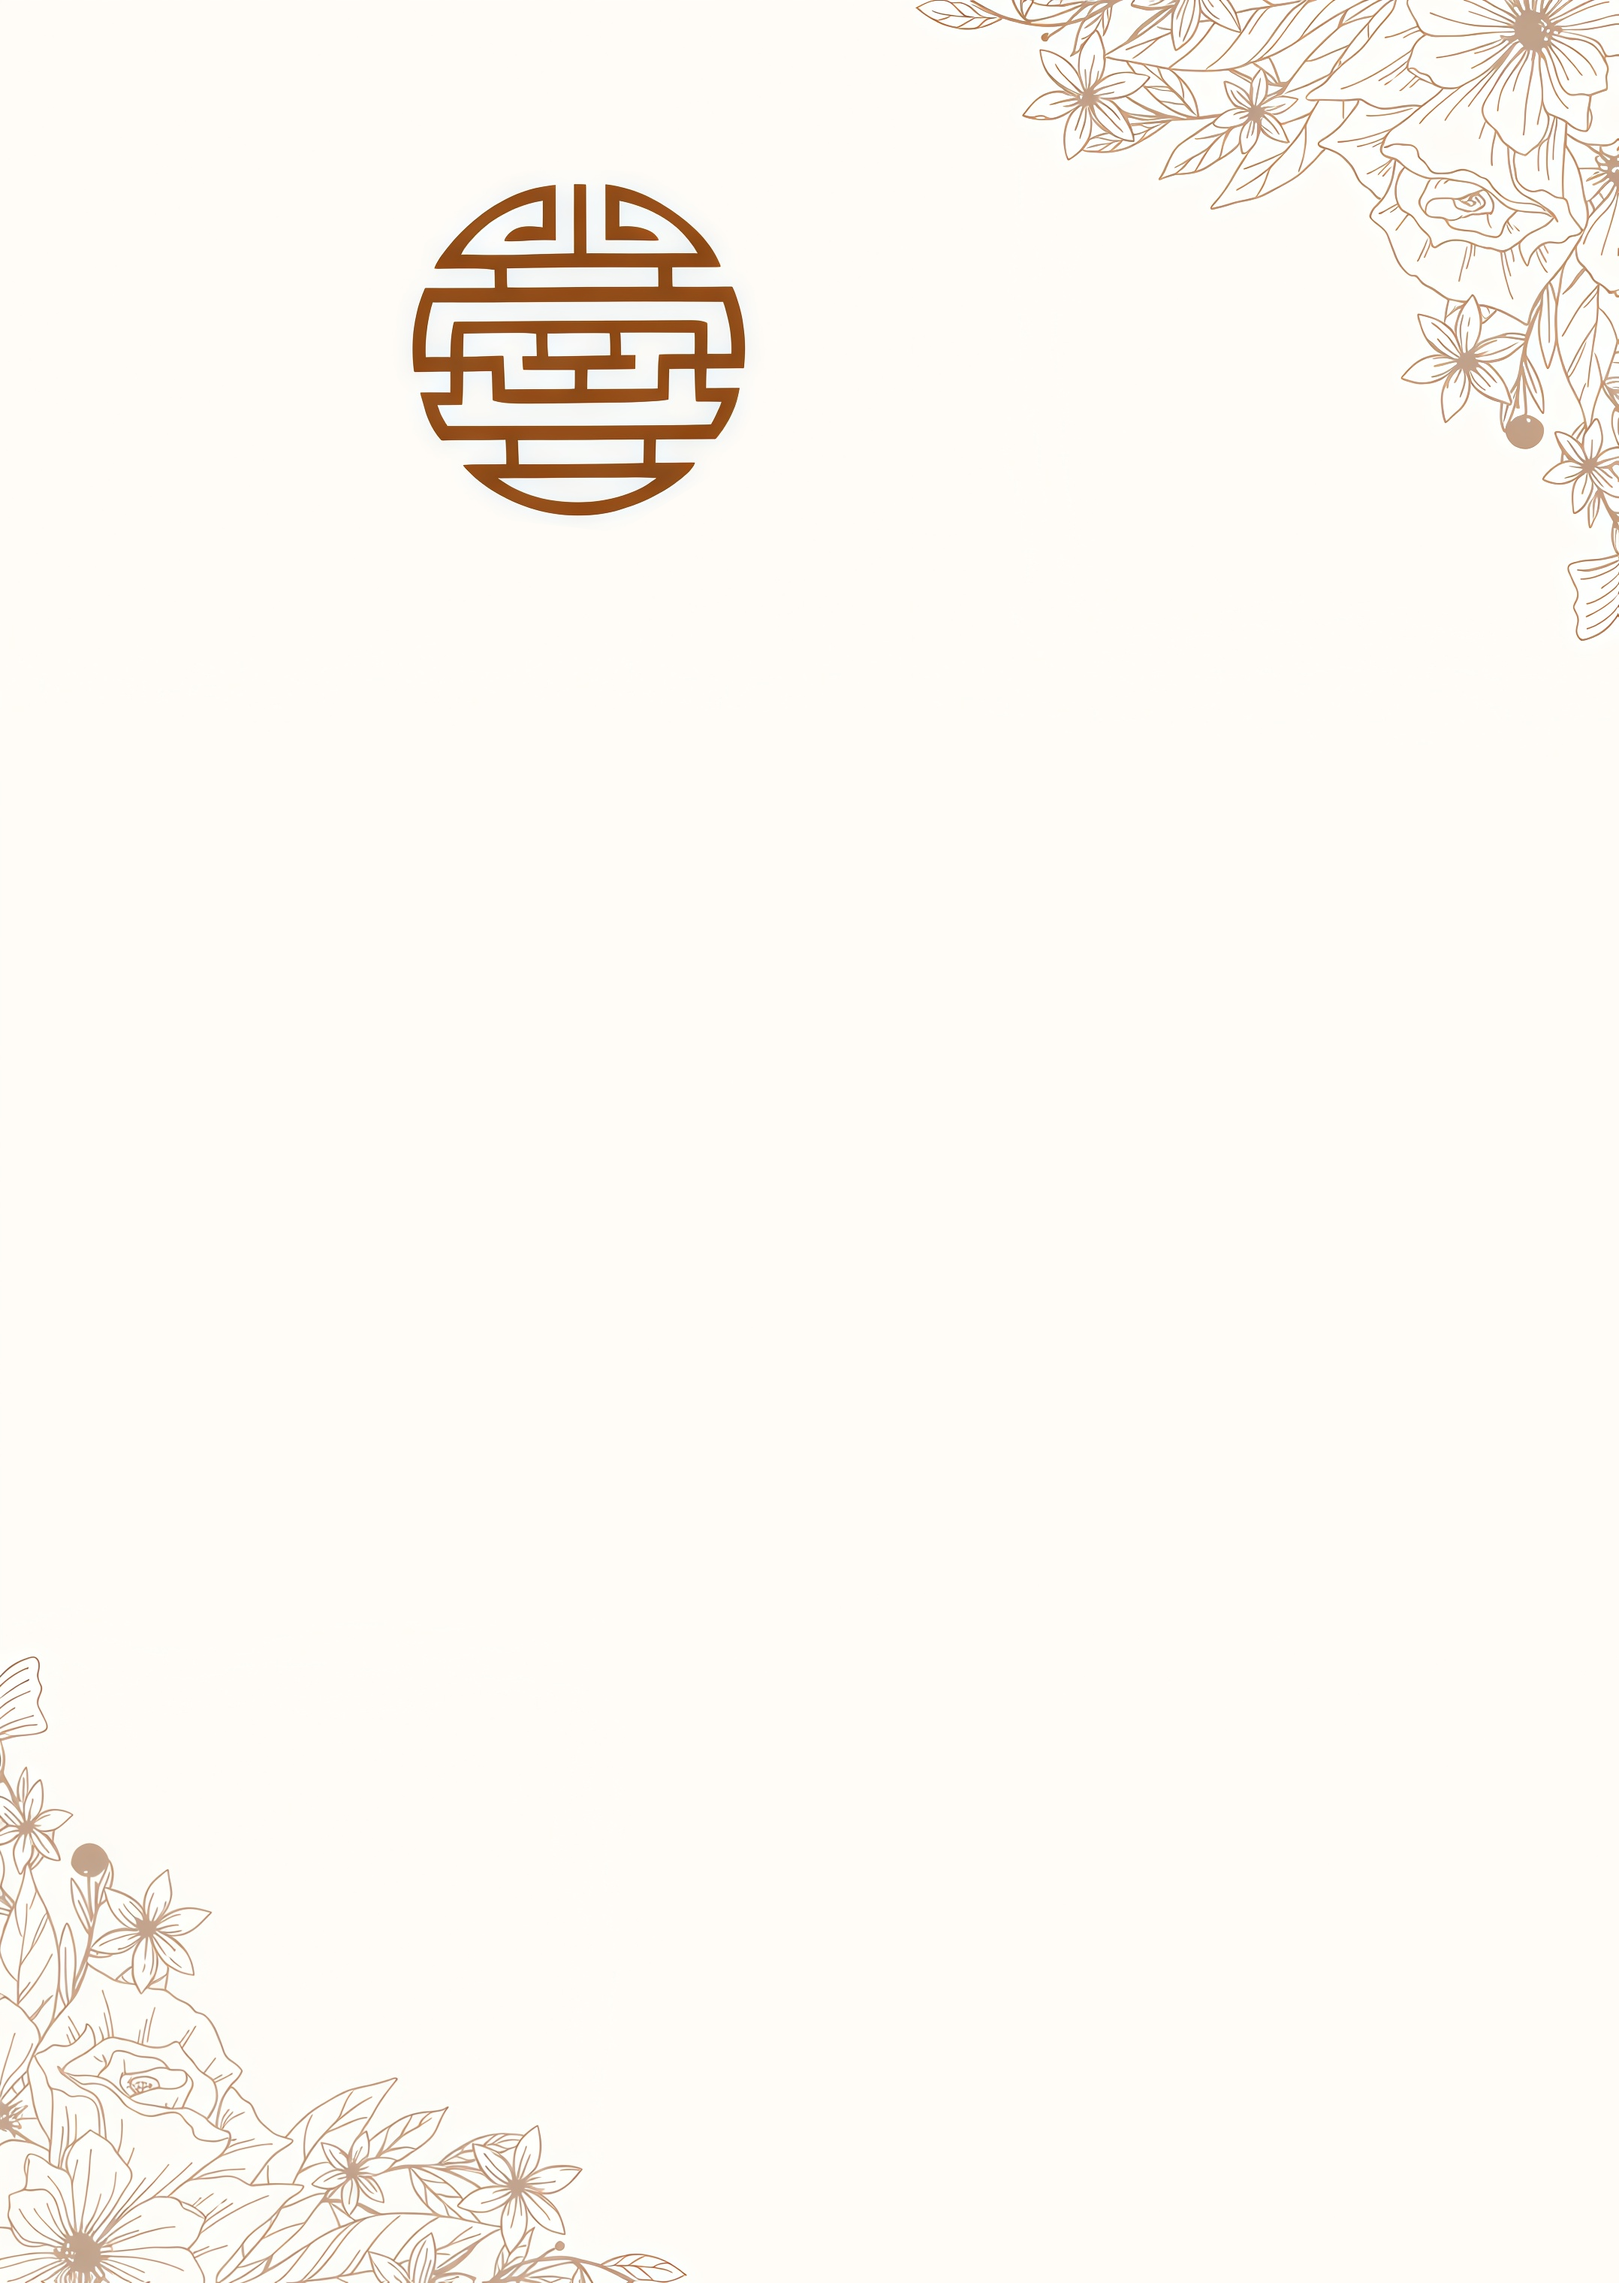
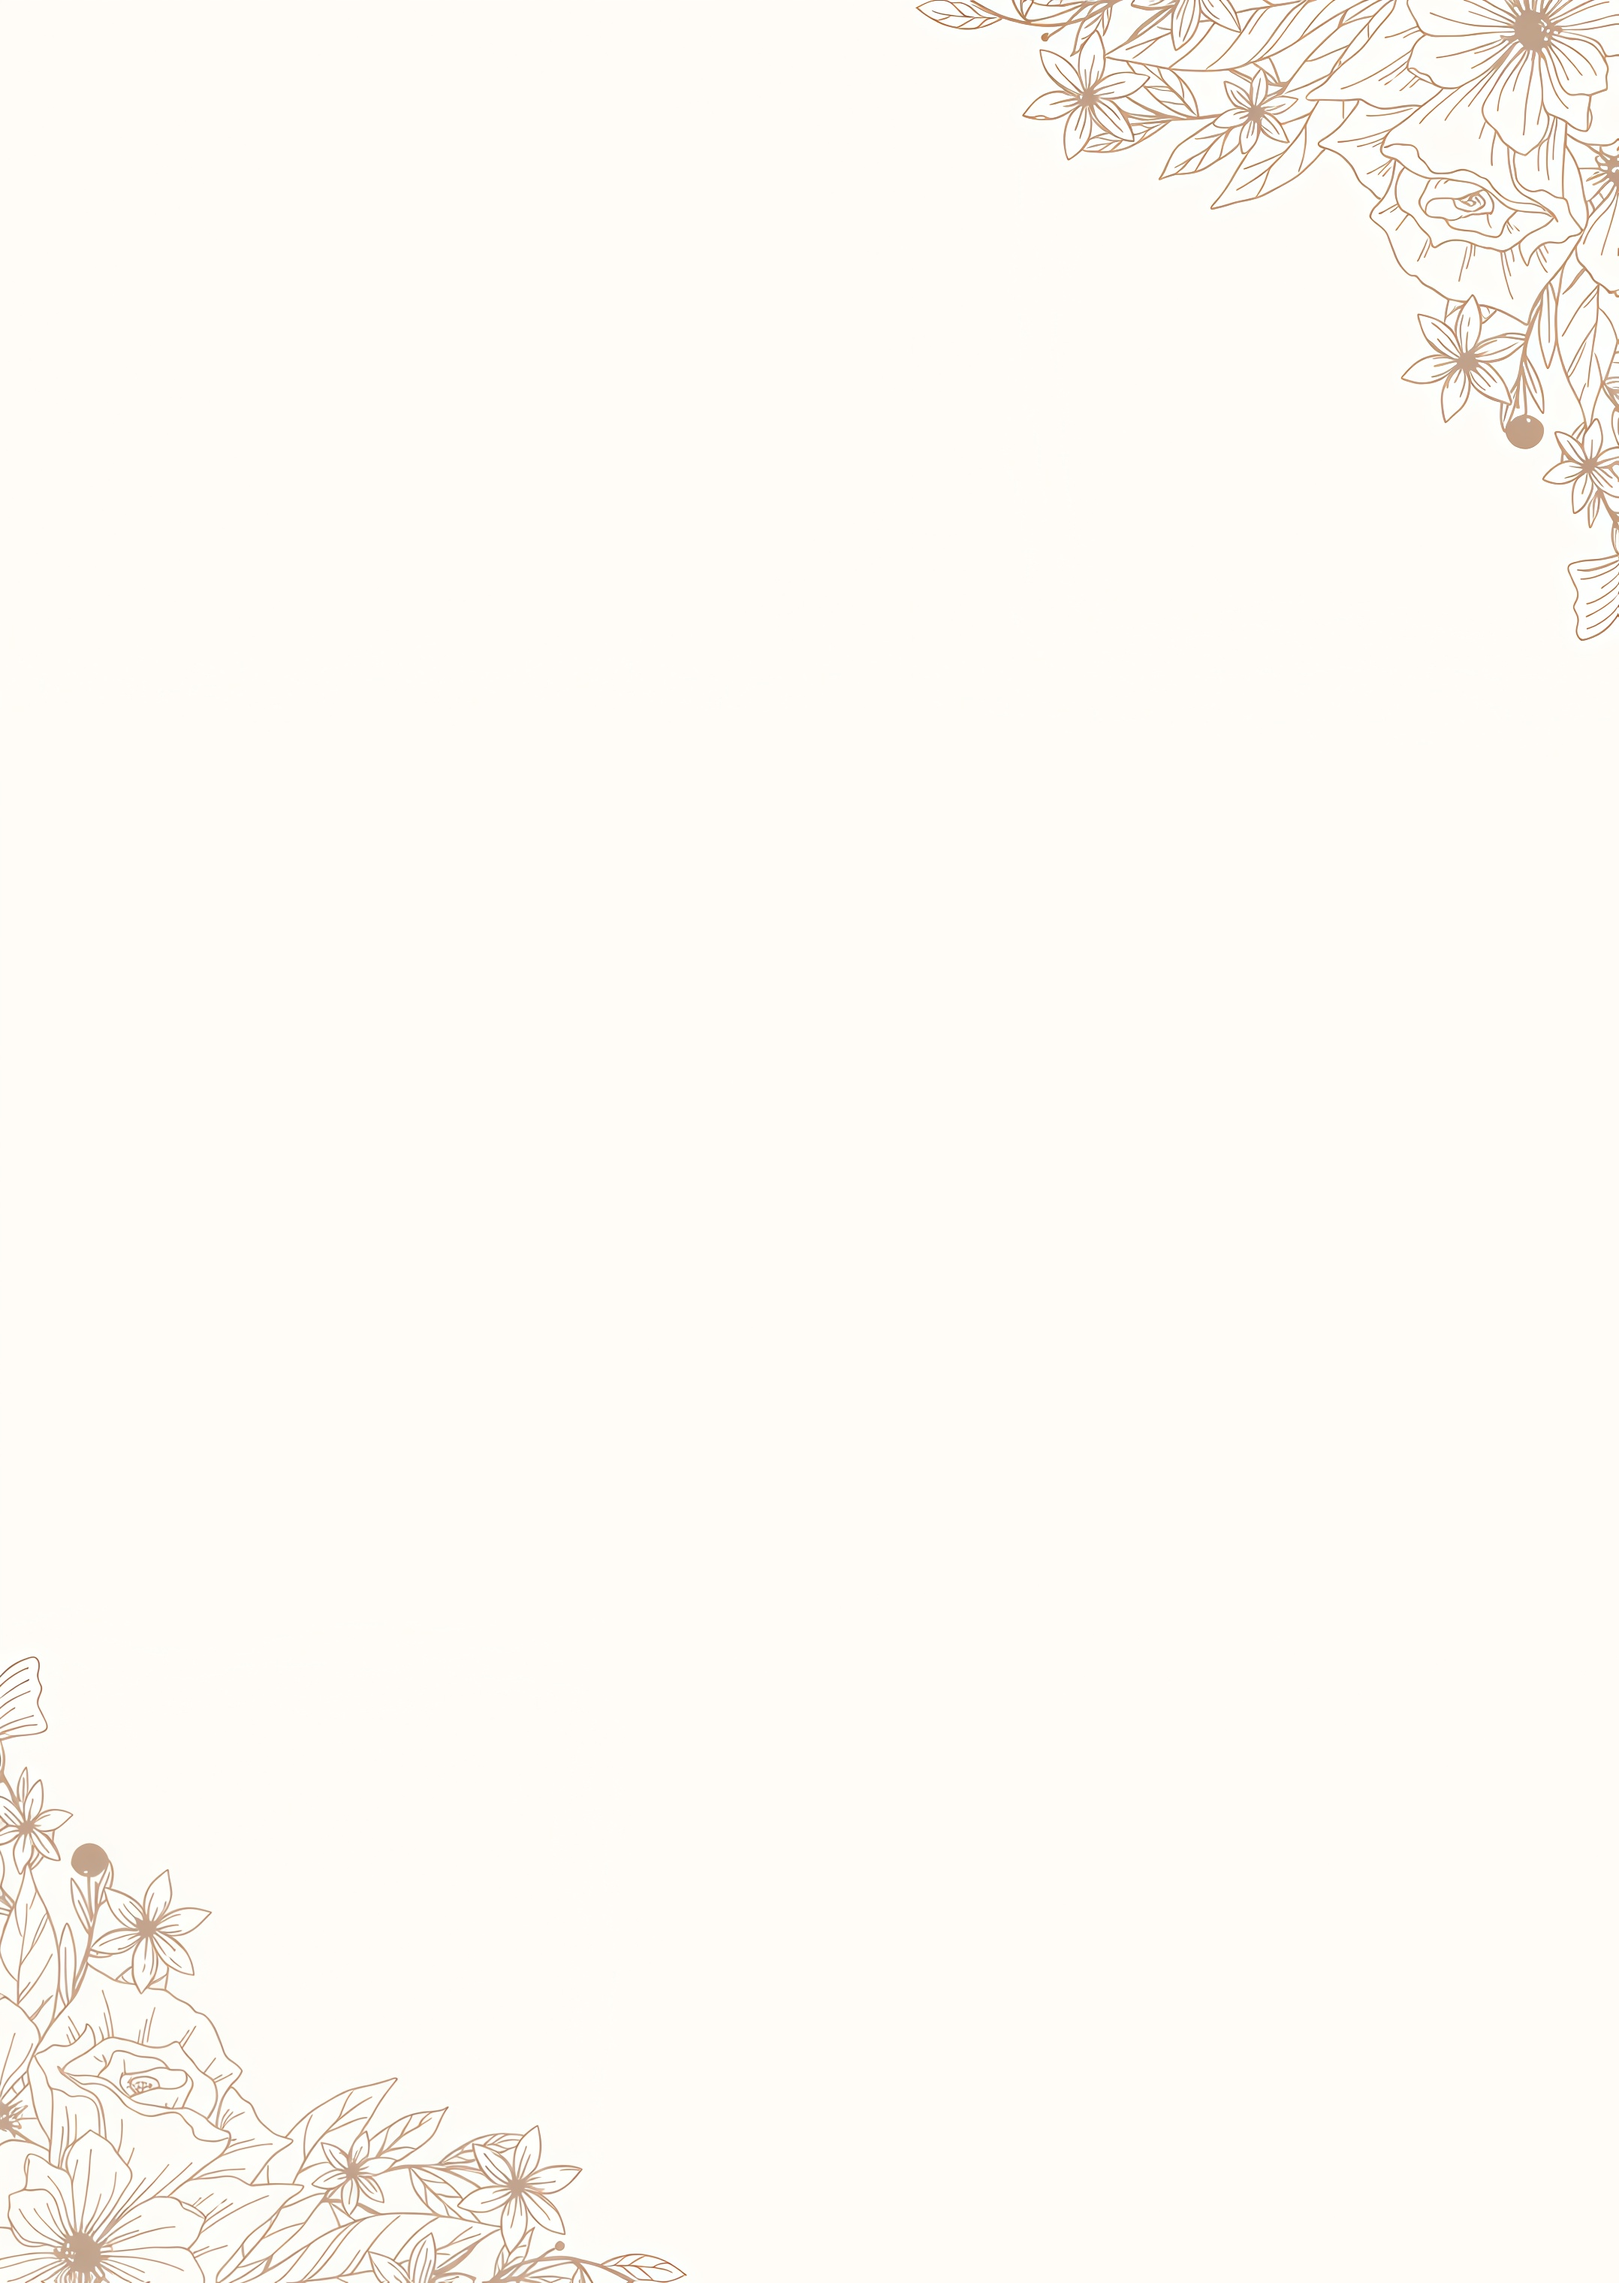
update

Changed region(s): [[0.2486, 0.0619, 0.4661, 0.2474]]

diff --git a/src/pages/WeddingInvite.tsx b/src/pages/WeddingInvite.tsx
@@ -45,10 +45,10 @@ const HERO_BG = `${BASE}hero-bg.png`;
 /** Album: các ảnh AN_03293 (trừ 3 ảnh đã dùng ở hero / nhà trai / nhà gái) */
 const ALBUM_IMAGES = [
   "AN_03293_2.jpg",
-  "AN_03293_3.jpg",
   "AN_03293_5.jpg",
   "AN_03293_6.jpg",
   "AN_03293_7.jpg",
+  "AN_03293_11.jpg",
   "AN_03293_8.jpg",
   "AN_03293_9.jpg",
 ] as const;
@@ -139,15 +139,10 @@ export function WeddingInvite() {
       {overlayVisible && (
         <button
           type="button"
-          className={`overlay-enter-card fixed left-0 right-0 top-0 z-[200] mx-auto h-full min-h-[100dvh] w-full max-w-[420px] cursor-pointer overflow-hidden outline-none focus:ring-0 ${overlayExiting ? "overlay-exiting" : ""
+          className={`overlay-enter-card fixed top-0 z-[200] h-[100dvh] min-h-[100dvh] w-full cursor-pointer overflow-hidden border-0 p-0 outline-none focus:ring-0 ${overlayExiting ? "overlay-exiting" : ""
             }`}
           style={{
-            minHeight: "100dvh",
             backgroundColor: COLOR_CREAM,
-            backgroundImage: `url("${OVERLAY_BG}")`,
-            backgroundSize: "cover",
-            backgroundRepeat: "no-repeat",
-            backgroundPosition: "center center",
             fontFamily: '"Quicksand", sans-serif',
             color: COLOR_BROWN,
           }}
@@ -159,35 +154,38 @@ export function WeddingInvite() {
           }}
           aria-label={t("hero.tapToOpen")}
         >
-          <div className="flex h-full min-h-[100dvh] flex-col px-7 pb-18 pt-40 sm:px-9 sm:pt-60">
-            <p className="mt-20 text-left text-base w-2/3 uppercase leading-relaxed sm:text-base">
-              {t("hero.overlay.inviteLine")}
-            </p>
+          <div
+            className="overlay-stage"
+            style={{ backgroundImage: `url("${OVERLAY_BG}")` }}
+          >
+            <div className="overlay-layout">
+              <div className="overlay-layout__cluster">
+                <p className="overlay-layout__invite text-left text-base uppercase leading-relaxed w-2/3">
+                  {t("hero.overlay.inviteLine")}
+                </p>
+                <h1 className="overlay-layout__couple text-center text-[2.5rem] uppercase leading-snug tracking-[0.04em]">
+                  {t("hero.coupleName")}
+                </h1>
+                <div className="overlay-layout__datetime pt-40">
+                  <p className="font-bold tracking-wide text-[1.5rem]">
+                    {t("hero.overlay.dateTime")}
+                  </p>
+                  <p className="mt-1 font-normal tracking-wide text-xs">
+                    {t("hero.overlay.lunarDate")}
+                  </p>
+                </div>
 
-            <h1 className="mt-32 text-center uppercase leading-snug tracking-[0.04em] sm:mt-8 text-[2.5rem]">
-              {t("hero.coupleName")}
-            </h1>
+                <div className="overlay-layout__divider overlay-divider" aria-hidden />
 
-            <div className="flex-1 min-h-[2rem]" />
+                <p className="overlay-layout__presence whitespace-pre-line text-right text-xs uppercase leading-snug">
+                  {t("hero.overlay.presenceMessage")}
+                </p>
 
-            <div className="text-right">
-              <p className="font-bold tracking-wide text-[1.5rem]">
-                {t("hero.overlay.dateTime")}
-              </p>
-              <p className="mt-1 font-normal tracking-wide text-xs mb-4">
-                {t("hero.overlay.lunarDate")}
-              </p>
+                <p className="overlay-layout__tap animate-overlay-text text-center text-[10px] font-medium uppercase tracking-[0.22em]">
+                  {t("hero.tapToOpen")}
+                </p>
+              </div>
             </div>
-
-            <div className="overlay-divider my-5" aria-hidden />
-
-            <p className="whitespace-pre-line text-right text-xs uppercase leading-snug sm:text-xs">
-              {t("hero.overlay.presenceMessage")}
-            </p>
-
-            <p className="mt-8 animate-overlay-text text-center text-[10px] font-medium uppercase tracking-[0.22em]">
-              {t("hero.tapToOpen")}
-            </p>
           </div>
         </button>
       )}

diff --git a/src/index.css b/src/index.css
@@ -238,10 +238,81 @@
   animation: slide-in-from-right 0.6s ease-out both;
 }
 
-/* Overlay mở thiệp: fade out mượt + animation chữ */
+/* Overlay mở thiệp: nền phủ full màn (100dvh), chữ cố định theo % */
 .overlay-enter-card {
+  left: 0;
+  right: 0;
+  margin-left: auto;
+  margin-right: auto;
+  max-width: 420px;
   transition: opacity 0.85s cubic-bezier(0.25, 0.1, 0.25, 1);
 }
+
+.overlay-stage {
+  position: absolute;
+  inset: 0;
+  width: 100%;
+  height: 100%;
+  min-height: 100dvh;
+  overflow: hidden;
+  background-repeat: no-repeat;
+  background-size: cover;
+  background-position: center top;
+}
+
+.overlay-layout {
+  position: absolute;
+  inset: 0;
+  display: flex;
+  align-items: center;
+  justify-content: center;
+  box-sizing: border-box;
+  padding: 8%;
+  padding-bottom: calc(8% + env(safe-area-inset-bottom, 0px));
+}
+
+.overlay-layout__cluster {
+  display: flex;
+  flex-direction: column;
+  align-items: center;
+  width: 100%;
+  margin: 0;
+}
+
+.overlay-layout__invite {
+  align-self: flex-start;
+  width: 66.666667%;
+  margin: 0;
+}
+
+.overlay-layout__couple {
+  width: 100%;
+  margin: 1.25rem 0 0;
+}
+
+.overlay-layout__datetime {
+  width: 100%;
+  margin: 1.25rem 0 0;
+  text-align: right;
+}
+
+.overlay-layout__divider {
+  width: 100%;
+  margin: 1.25rem 0;
+}
+
+.overlay-layout__presence {
+  width: 100%;
+  margin: 0;
+  text-align: right;
+}
+
+.overlay-layout__tap {
+  width: 100%;
+  margin: 1.5rem 0 0;
+}
+
+/* Overlay mở thiệp: fade out mượt + animation chữ */
 .overlay-enter-card.overlay-exiting {
   opacity: 0;
   pointer-events: none;
